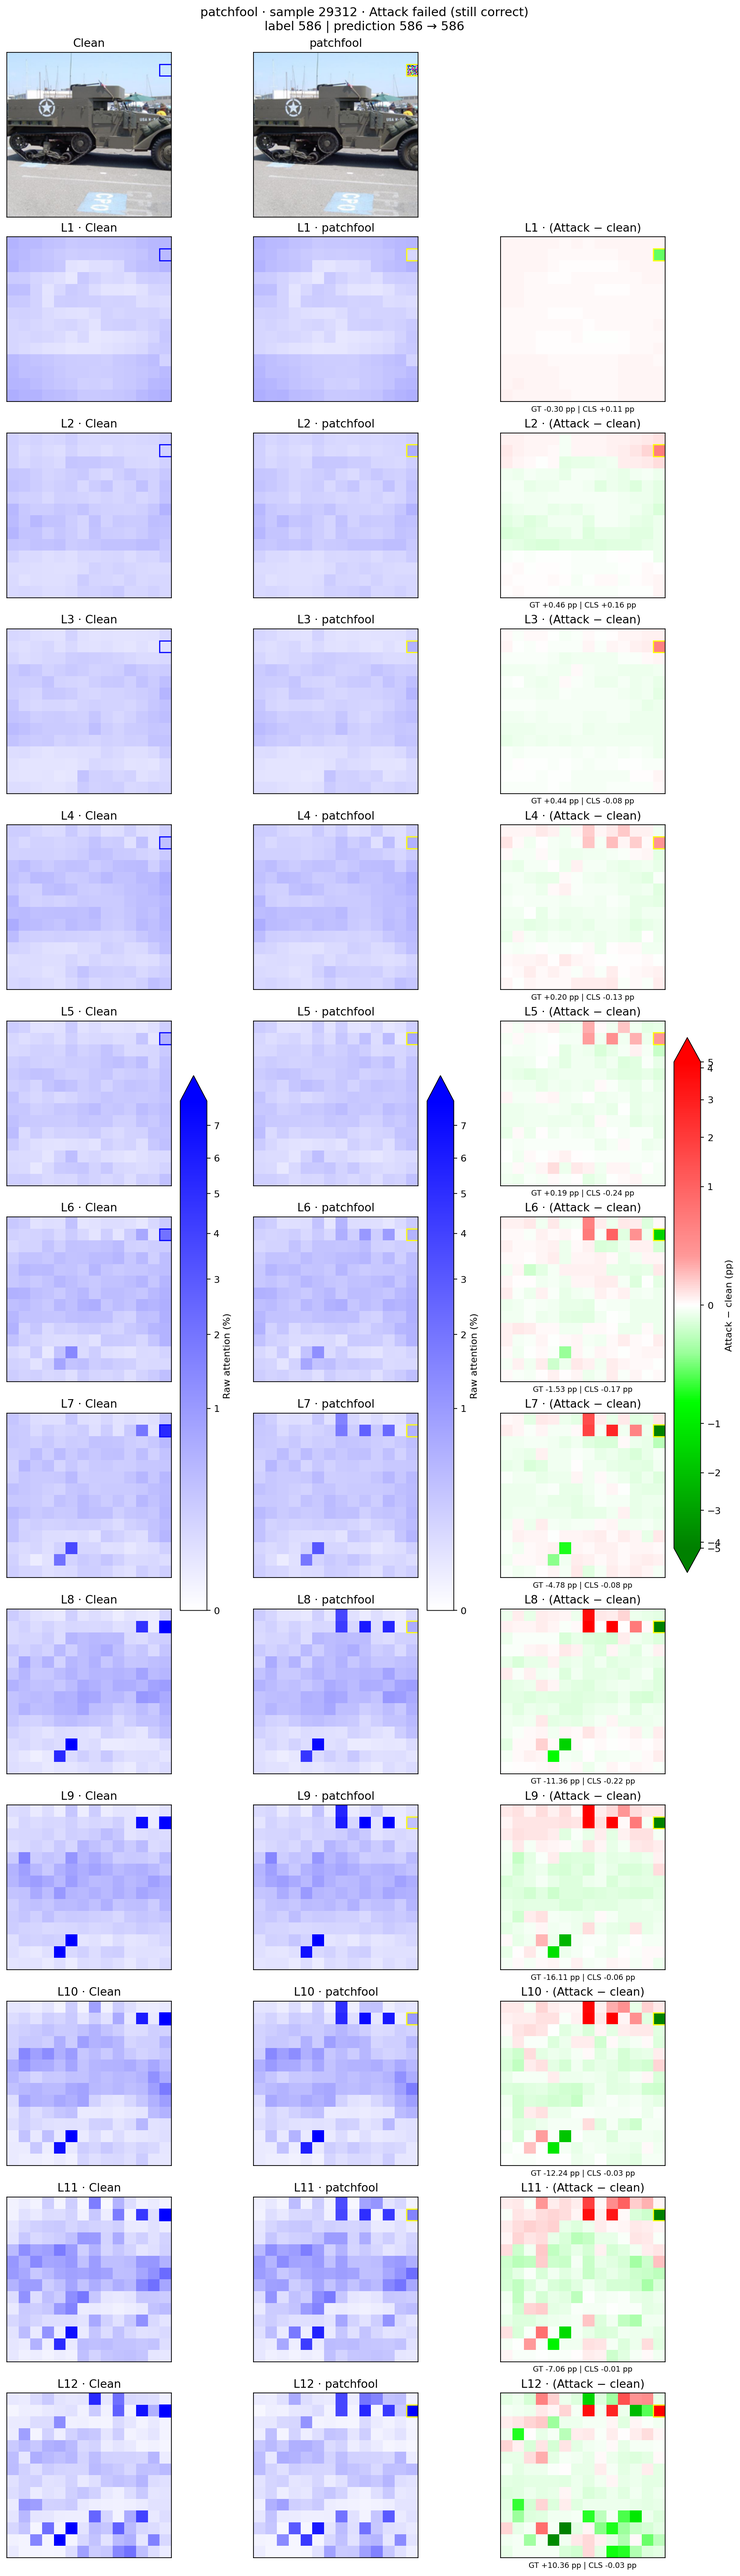
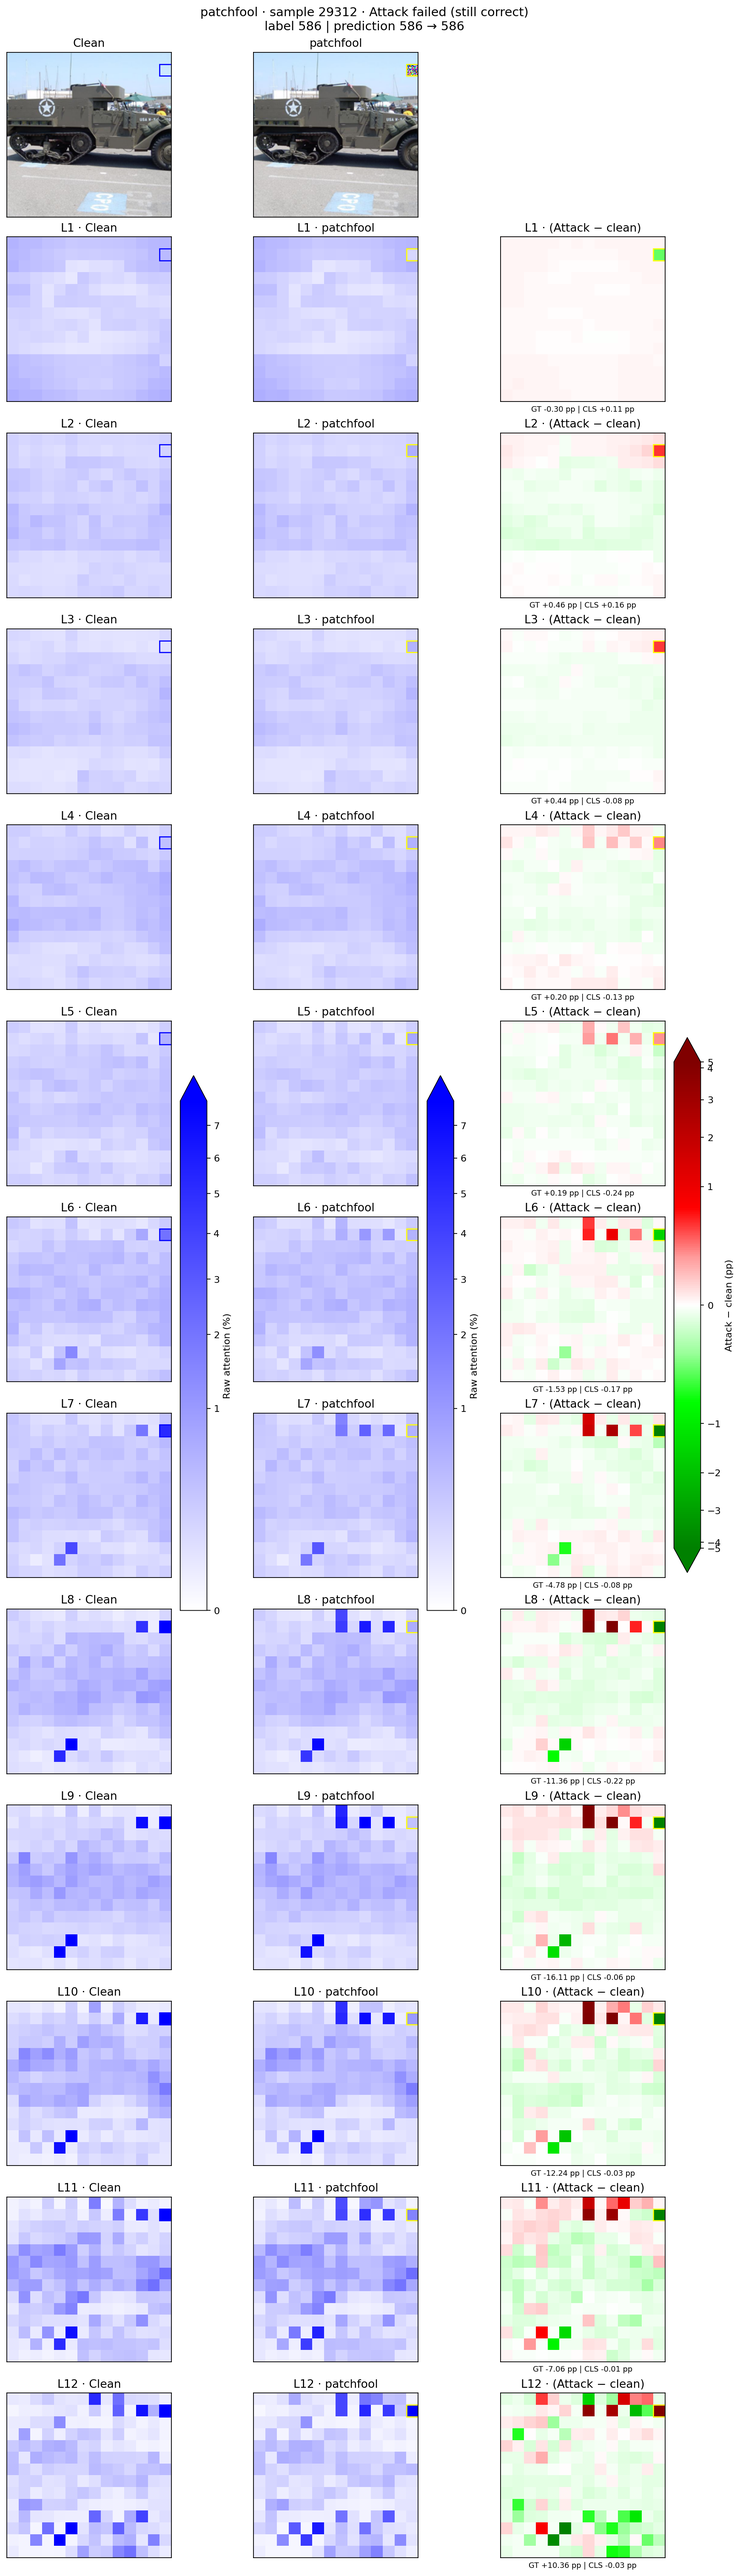
Diff heatmap red side mirrors green: light -> bright -> dark red (#800000)

diff --git a/01_patch_attack_detector/experiments/characterization/02_compare_attention_success_failure.py b/01_patch_attack_detector/experiments/characterization/02_compare_attention_success_failure.py
@@ -34,7 +34,7 @@ SEQUENTIAL = LinearSegmentedColormap.from_list('white_blue', ['#ffffff', '#0000f
 # 0은 흰색. 흰색에서 바로 연한 초록/연한 빨강으로 건너뛴 뒤 원색으로 진해진다 -- 선형으로
 # 흰색->원색을 이으면 작은 변화가 흰색과 구분이 안 된다.
 DIVERGING = LinearSegmentedColormap.from_list('green_white_red', [
-    (0.0, '#008000'), (0.3, '#00ff00'), (0.4, '#99ff99'), (0.5, '#ffffff'), (0.6, '#ff9999'), (1.0, '#ff0000')])
+    (0.0, '#008000'), (0.3, '#00ff00'), (0.4, '#99ff99'), (0.5, '#ffffff'), (0.6, '#ff9999'), (0.7, '#ff0000'), (1.0, '#800000')])
 
 
 class SignedPowerNorm(Normalize):
